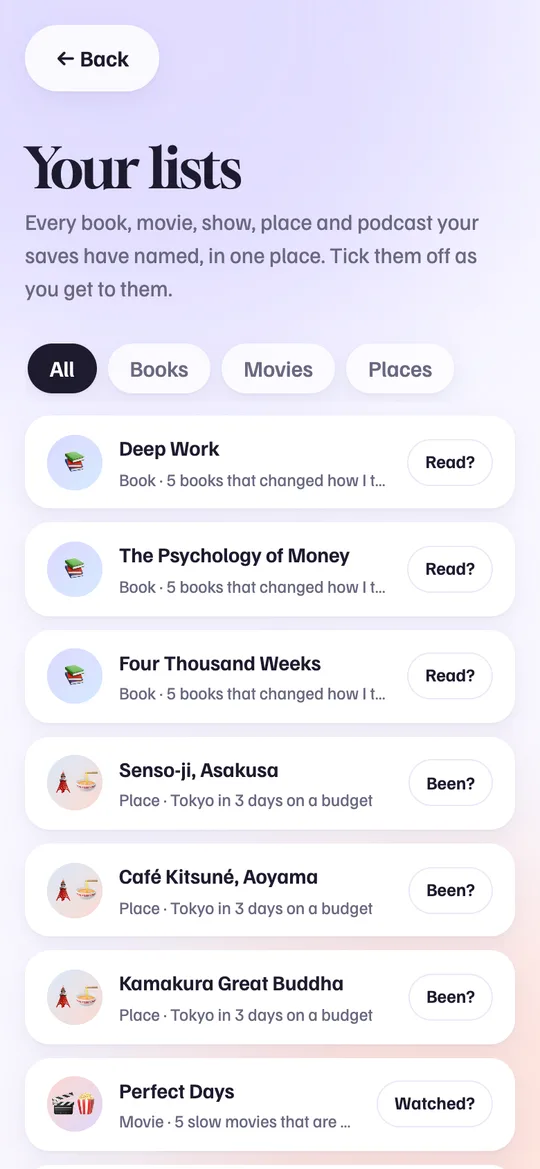
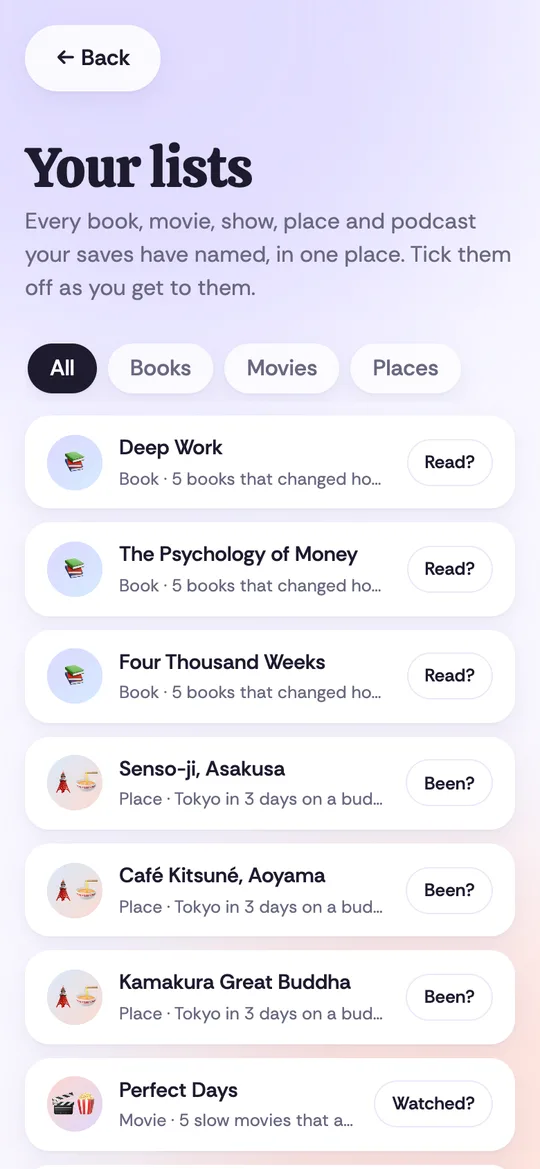
New type: Calistoga + Rethink Sans
Gloock (sharp editorial serif) + Familjen Grotesk read as generic
AI-landing-page type. Calistoga is soft and chunky, closer to the tail
mark and the cosy recipe-card content; Rethink Sans is a clear, friendly
UI sans. Applied to the app, landing, share page, privacy/terms and the
launch video; og.png and app screenshots regenerated.

diff --git a/promo/src/launch/SkwirlLaunch.tsx b/promo/src/launch/SkwirlLaunch.tsx
@@ -68,7 +68,7 @@ const Reveal: React.FC = () => {
     <AbsoluteFill style={{ display: "grid", placeItems: "center", opacity: 1 - out, transform: `scale(${1 - out * 0.06})` }}>
       <div style={{ display: "flex", alignItems: "center", gap: 40, transform: `translateX(${(1 - word) * 150}px)` }}>
         <Mark id="reveal" size={280} draw={draw} acorn={f >= 158 ? acorn : 0} />
-        <div style={{ fontFamily: display, fontSize: 250, letterSpacing: "-0.035em", color: C.ink, lineHeight: 1, clipPath: `inset(-20% ${(1 - word) * 100}% -20% 0)` }}>Skwirl</div>
+        <div style={{ fontFamily: display, fontSize: 250, letterSpacing: "-0.02em", color: C.ink, lineHeight: 1, clipPath: `inset(-20% ${(1 - word) * 100}% -20% 0)` }}>Skwirl</div>
       </div>
     </AbsoluteFill>
   );
@@ -165,7 +165,7 @@ const PhoneStage: React.FC = () => {
 };
 const Left: React.FC<{ children: React.ReactNode; inAt: number; outAt: number }> = ({ children, inAt, outAt }) => {
   const s = useInOut(inAt - S.share, outAt - S.share, 30);
-  return <div style={{ position: "absolute", left: 170, top: 0, bottom: 0, width: 900, display: "flex", flexDirection: "column", justifyContent: "center", gap: 40, ...s }}>{children}</div>;
+  return <div style={{ position: "absolute", left: 170, top: 0, bottom: 0, width: 990, display: "flex", flexDirection: "column", justifyContent: "center", gap: 40, ...s }}>{children}</div>;
 };
 const Stagger: React.FC<{ items: React.ReactNode[]; from: number; every: number }> = ({ items, from, every }) => {
   const f = useCurrentFrame(); // sequence-local, like `from`
@@ -188,11 +188,11 @@ const Story: React.FC = () => (
       <Stagger from={262 - S.share} every={4} items={["Instagram", "TikTok", "YouTube", "X", "Threads"].map((n) => <Pill key={n}>{n}</Pill>)} />
     </Left>
     <Left inAt={362} outAt={534}>
-      <Kinetic captions={cap(noteVo)} voAt={VO.note - S.share} style={{ fontSize: 86 }} breakAfter={[4]} />
+      <Kinetic captions={cap(noteVo)} voAt={VO.note - S.share} style={{ fontSize: 78 }} breakAfter={[4, 9]} />
       <Stagger from={392 - S.share} every={8} items={[["🔊", "Audio"], ["🔤", "On-screen text"], ["✍", "Caption"], ["💬", "Top comments"]].map(([e, n]) => <Pill key={n} bg={C.butter}>{e} {n}</Pill>)} />
     </Left>
     <Left inAt={542} outAt={678}>
-      <Kinetic captions={cap(lists)} voAt={VO.lists - S.share} style={{ fontSize: 86 }} breakAfter={[2]} />
+      <Kinetic captions={cap(lists)} voAt={VO.lists - S.share} style={{ fontSize: 78 }} breakAfter={[2, 5]} />
       <Stagger from={590 - S.share} every={7} items={MENTIONS.map(([e, n, k, c]) => (
         <div key={n} style={{ display: "flex", alignItems: "center", gap: 16, background: "#fff", borderRadius: 26, padding: "14px 24px 14px 14px", boxShadow: lift, fontFamily: ui }}>
           <span style={{ width: 56, height: 56, borderRadius: "50%", background: c, display: "grid", placeItems: "center", fontSize: 28 }}>{e}</span>
@@ -248,7 +248,7 @@ const Outro: React.FC = () => {
     <AbsoluteFill style={{ display: "flex", flexDirection: "column", alignItems: "center", justifyContent: "center", gap: 34 }}>
       <div style={{ display: "flex", alignItems: "center", gap: 26, opacity: lock, transform: `scale(${0.85 + lock * 0.15})` }}>
         <Mark id="outro" size={150} />
-        <span style={{ fontFamily: display, fontSize: 150, letterSpacing: "-0.035em", color: C.ink, lineHeight: 1 }}>Skwirl</span>
+        <span style={{ fontFamily: display, fontSize: 150, letterSpacing: "-0.02em", color: C.ink, lineHeight: 1 }}>Skwirl</span>
       </div>
       <Kinetic captions={cap(outro)} voAt={VO.outro - S.outro} skip={1} style={{ fontSize: 76, textAlign: "center" }} />
       <div style={{ display: "flex", gap: 16, opacity: url, transform: `translateY(${(1 - url) * 24}px)` }}>

diff --git a/worker/src/share.ts b/worker/src/share.ts
@@ -95,24 +95,24 @@ const page = (title: string, body: string, meta: string) => `<!doctype html>
 <meta name="viewport" content="width=device-width, initial-scale=1">
 <title>${esc(title)} · Skwirl</title>${meta}
 <link rel="icon" href="/icon-192.png">
-<link href="https://fonts.googleapis.com/css2?family=Familjen+Grotesk:wght@400;500;600&family=Gloock&display=swap" rel="stylesheet">
+<link href="https://fonts.googleapis.com/css2?family=Calistoga&family=Rethink+Sans:wght@400;500;600&display=swap" rel="stylesheet">
 <style>
 :root { --bg:#f8f7ff; --ink:#1d1b2e; --muted:#6a6880; --lavender:#dcd8ff; --peach:#ffd8cb; }
 * { box-sizing: border-box; }
-body { margin:0; background:var(--bg); color:var(--ink); font:17px/1.55 "Familjen Grotesk", system-ui, sans-serif; padding:24px 18px 60px; }
+body { margin:0; background:var(--bg); color:var(--ink); font:17px/1.55 "Rethink Sans", system-ui, sans-serif; padding:24px 18px 60px; }
 main { max-width:640px; margin:0 auto; }
-.top { display:inline-flex; align-items:center; gap:7px; font-family:Gloock, Georgia, serif; font-size:26px; color:inherit; text-decoration:none; }
+.top { display:inline-flex; align-items:center; gap:7px; font-family:Calistoga, Georgia, serif; font-size:26px; color:inherit; text-decoration:none; }
 .top img { width:27px; height:27px; }
 .cover { display:block; width:100%; max-height:320px; object-fit:cover; border-radius:28px; margin:18px 0 16px; }
 .tag { display:inline-block; margin-top:18px; padding:3px 12px; border-radius:999px; background:var(--lavender); font-size:13px; font-weight:500; text-transform:capitalize; }
-h1 { font-family:Gloock, Georgia, serif; font-weight:400; font-size:clamp(30px,7vw,44px); line-height:1.1; margin:12px 0 14px; }
-h2 { font-family:Gloock, Georgia, serif; font-weight:400; font-size:23px; margin:26px 0 6px; }
+h1 { font-family:Calistoga, Georgia, serif; font-weight:400; font-size:clamp(30px,7vw,44px); line-height:1.1; margin:12px 0 14px; }
+h2 { font-family:Calistoga, Georgia, serif; font-weight:400; font-size:23px; margin:26px 0 6px; }
 .note { background:#fff; border-radius:28px; padding:6px 22px 18px; box-shadow:0 6px 18px rgb(60 50 120 / .07); }
 ol, ul { padding-left:22px; } li { margin-bottom:6px; }
 .btn { display:inline-flex; align-items:center; height:48px; padding:0 22px; border-radius:999px; background:var(--ink); color:#fff; font-weight:600; text-decoration:none; }
 .btn.soft { background:#fff; color:var(--ink); box-shadow:0 6px 18px rgb(60 50 120 / .07); }
 .cta { margin-top:34px; background:var(--peach); border-radius:28px; padding:22px; }
-.cta b { font-family:Gloock, Georgia, serif; font-weight:400; font-size:24px; }
+.cta b { font-family:Calistoga, Georgia, serif; font-weight:400; font-size:24px; }
 .cta p { margin:6px 0 16px; }
 </style></head>
 <body><main><a class="top" href="/"><img src="/mark.svg" alt="">Skwirl</a>${body}</main></body></html>`;

diff --git a/worker/public/privacy.html b/worker/public/privacy.html
@@ -2,14 +2,14 @@
 <html lang="en"><head><meta charset="utf-8"><meta name="viewport" content="width=device-width, initial-scale=1">
 <title>Privacy · Skwirl</title><meta name="theme-color" content="#f8f7ff"><link rel="icon" href="/favicon.svg" type="image/svg+xml">
 <link rel="preconnect" href="https://fonts.googleapis.com"><link rel="preconnect" href="https://fonts.gstatic.com" crossorigin>
-<link href="https://fonts.googleapis.com/css2?family=Familjen+Grotesk:wght@400;500;600&family=Gloock&display=swap" rel="stylesheet">
+<link href="https://fonts.googleapis.com/css2?family=Calistoga&family=Rethink+Sans:wght@400;500;600&display=swap" rel="stylesheet">
 <style>
 :root { --bg:#f8f7ff; --ink:#1d1b2e; --muted:#6a6880; --lavender:#dcd8ff; }
 * { box-sizing:border-box; } html { color-scheme: light; }
-body { margin:0; background:var(--bg); color:var(--ink); font:16px/1.6 "Familjen Grotesk", ui-sans-serif, system-ui, sans-serif; padding:24px 18px 60px; }
+body { margin:0; background:var(--bg); color:var(--ink); font:16px/1.6 "Rethink Sans", ui-sans-serif, system-ui, sans-serif; padding:24px 18px 60px; }
 main { max-width:680px; margin:0 auto; background:#fff; border-radius:28px; padding:28px 24px; box-shadow:0 4px 10px rgb(60 50 120 / .08), 0 18px 40px rgb(60 50 120 / .10); }
-h1 { font-family:Gloock, Georgia, serif; font-weight:400; font-size:36px; line-height:1.1; margin:6px 0 4px; }
-h2 { font-family:Gloock, Georgia, serif; font-weight:400; font-size:22px; margin:26px 0 6px; }
+h1 { font-family:Calistoga, Georgia, serif; font-weight:400; font-size:36px; line-height:1.1; margin:6px 0 4px; }
+h2 { font-family:Calistoga, Georgia, serif; font-weight:400; font-size:22px; margin:26px 0 6px; }
 .muted { color:var(--muted); font-size:14px; } a { color:inherit; }
 .back { display:inline-block; margin-bottom:10px; text-decoration:none; background:var(--bg); border-radius:999px; padding:8px 16px; font-weight:600; }
 .note { background:#fff0c4; border-radius:16px; padding:12px 14px; font-size:14px; }

diff --git a/worker/public/terms.html b/worker/public/terms.html
@@ -2,14 +2,14 @@
 <html lang="en"><head><meta charset="utf-8"><meta name="viewport" content="width=device-width, initial-scale=1">
 <title>Terms · Skwirl</title><meta name="theme-color" content="#f8f7ff"><link rel="icon" href="/favicon.svg" type="image/svg+xml">
 <link rel="preconnect" href="https://fonts.googleapis.com"><link rel="preconnect" href="https://fonts.gstatic.com" crossorigin>
-<link href="https://fonts.googleapis.com/css2?family=Familjen+Grotesk:wght@400;500;600&family=Gloock&display=swap" rel="stylesheet">
+<link href="https://fonts.googleapis.com/css2?family=Calistoga&family=Rethink+Sans:wght@400;500;600&display=swap" rel="stylesheet">
 <style>
 :root { --bg:#f8f7ff; --ink:#1d1b2e; --muted:#6a6880; --lavender:#dcd8ff; }
 * { box-sizing:border-box; } html { color-scheme: light; }
-body { margin:0; background:var(--bg); color:var(--ink); font:16px/1.6 "Familjen Grotesk", ui-sans-serif, system-ui, sans-serif; padding:24px 18px 60px; }
+body { margin:0; background:var(--bg); color:var(--ink); font:16px/1.6 "Rethink Sans", ui-sans-serif, system-ui, sans-serif; padding:24px 18px 60px; }
 main { max-width:680px; margin:0 auto; background:#fff; border-radius:28px; padding:28px 24px; box-shadow:0 4px 10px rgb(60 50 120 / .08), 0 18px 40px rgb(60 50 120 / .10); }
-h1 { font-family:Gloock, Georgia, serif; font-weight:400; font-size:36px; line-height:1.1; margin:6px 0 4px; }
-h2 { font-family:Gloock, Georgia, serif; font-weight:400; font-size:22px; margin:26px 0 6px; }
+h1 { font-family:Calistoga, Georgia, serif; font-weight:400; font-size:36px; line-height:1.1; margin:6px 0 4px; }
+h2 { font-family:Calistoga, Georgia, serif; font-weight:400; font-size:22px; margin:26px 0 6px; }
 .muted { color:var(--muted); font-size:14px; } a { color:inherit; }
 .back { display:inline-block; margin-bottom:10px; text-decoration:none; background:var(--bg); border-radius:999px; padding:8px 16px; font-weight:600; }
 .note { background:#fff0c4; border-radius:16px; padding:12px 14px; font-size:14px; }

diff --git a/worker/public/index.html b/worker/public/index.html
@@ -19,10 +19,10 @@
 <meta name="apple-mobile-web-app-capable" content="yes">
 <link rel="preconnect" href="https://fonts.googleapis.com">
 <link rel="preconnect" href="https://fonts.gstatic.com" crossorigin>
-<link href="https://fonts.googleapis.com/css2?family=Familjen+Grotesk:wght@400;500;600&family=Gloock&display=swap" rel="stylesheet">
+<link href="https://fonts.googleapis.com/css2?family=Calistoga&family=Rethink+Sans:wght@400;500;600&display=swap" rel="stylesheet">
 <style>
 /* Design language borrowed from the portfolio's "ethereal" theme: cool lavender-white
-   ground, lavender / mint / peach pastels, Gloock (display serif) + Familjen Grotesk,
+   ground, lavender / mint / peach pastels, Calistoga (soft chunky display) + Rethink Sans,
    generously rounded corners, soft low-alpha elevation. Light mode only, by choice. */
 :root {
   --bg: #f8f7ff; --surface: #ffffff; --ink: #1d1b2e; --muted: #6a6880; --line: #ebe8f7;
@@ -31,8 +31,8 @@
   --r-card: 24px; --r-input: 999px; --r-btn: 999px;
   --lift-1: 0 1px 2px rgb(60 50 120 / .05), 0 6px 18px rgb(60 50 120 / .07);
   --lift-2: 0 4px 10px rgb(60 50 120 / .08), 0 18px 40px rgb(60 50 120 / .12);
-  --display: "Gloock", Georgia, "Times New Roman", serif;
-  --ui: "Familjen Grotesk", ui-sans-serif, -apple-system, system-ui, sans-serif;
+  --display: "Calistoga", Georgia, "Times New Roman", serif;
+  --ui: "Rethink Sans", ui-sans-serif, -apple-system, system-ui, sans-serif;
   --mono: ui-monospace, "SF Mono", Menlo, monospace;
 }
 * { box-sizing: border-box; }

diff --git a/promo/src/launch/kit.tsx b/promo/src/launch/kit.tsx
@@ -1,12 +1,12 @@
 import React from "react";
 import { AbsoluteFill, Easing, interpolate, spring, useCurrentFrame, useVideoConfig } from "remotion";
 import type { Caption } from "@remotion/captions";
-import { loadFont as loadGloock } from "@remotion/google-fonts/Gloock";
-import { loadFont as loadFamiljen } from "@remotion/google-fonts/FamiljenGrotesk";
+import { loadFont as loadCalistoga } from "@remotion/google-fonts/Calistoga";
+import { loadFont as loadRethink } from "@remotion/google-fonts/RethinkSans";
 import { ACORN, CENTRELINE, CENTRELINE_LENGTH, MAX_WIDTH, TAIL } from "./markGeometry";
 
-export const display = loadGloock().fontFamily;
-export const ui = loadFamiljen("normal", { weights: ["400", "500", "600"] }).fontFamily;
+export const display = loadCalistoga().fontFamily;
+export const ui = loadRethink("normal", { weights: ["400", "500", "600"] }).fontFamily;
 
 // The app's own tokens (worker/public/index.html :root).
 export const C = {
@@ -47,7 +47,7 @@ export const Kinetic: React.FC<{
   const f = useCurrentFrame();
   const { fps } = useVideoConfig();
   return (
-    <div style={{ fontFamily: display, color: C.ink, letterSpacing: "-0.03em", lineHeight: 1.04, ...style }}>
+    <div style={{ fontFamily: display, color: C.ink, letterSpacing: "-0.015em", lineHeight: 1.06, ...style }}>
       {captions.slice(skip).map((c, i) => {
         const at = voAt + (c.startMs / 1000) * fps - lead;
         const s = spring({ frame: f - at, fps, config: { damping: 18, stiffness: 160 } });

diff --git a/DESIGN.md b/DESIGN.md
@@ -40,7 +40,7 @@ visual language of the portfolio's "ethereal" theme (`portfolio-v2/components/et
 - **Light mode only.** Ground `#f8f7ff`, soft drifting lavender/peach orbs behind content.
 - **Pastels:** lavender `#dcd8ff`, mint `#cdf3e1`, peach `#ffd8cb`, sky `#d6ebff`, butter `#fff0c4`. Each topic gets a fixed tint; cards lead with a big serif initial until real thumbnails exist.
 - **Peach means "unused"** (the badge and counter). It's the one semantic colour: the unused count is the product's core metric.
-- **Type:** Gloock (display serif) for the wordmark, titles and section heads; Familjen Grotesk for UI and body.
+- **Type:** Calistoga (soft, chunky display; its rounded, ink-trapped curves echo the tail mark) for the wordmark, titles and section heads; Rethink Sans for UI and body. Replaced Gloock + Familjen Grotesk on 2026-11-03: the sharp editorial serif read as generic AI-landing-page type.
 - **Shape:** generous radii (cards 24px, hero 32px, sheets 28px, everything interactive is a pill), soft low-alpha elevation instead of borders.
 - **Logo (2026-10-29):** a squirrel tail drawn as one tapered swirl, coral acorn tucked in the curl. Sources and rules in `design/logo/`.
 - **Motion:** cards rise + fade with a short stagger, press = scale .97, bottom sheet slides in; all disabled under reduced-motion.
@@ -76,4 +76,3 @@ served from D1 at `/t/<id>`. The serif initial stays underneath as the fallback.
 
 ## Still open
 1. Collections beyond auto-topics.
-2. Wordmark and name: currently "Stash" set in Gloock; a rename is being considered.

diff --git a/design/logo/README.md b/design/logo/README.md
@@ -8,7 +8,7 @@ with a coral acorn tucked inside the curl: the thing it stashed for later.
 - `final.py` writes the SVGs: `mark.svg` (bare), `icon.svg` (full-bleed lavender, the OS rounds
   it), `maskable.svg` (smaller, inside Android's safe circle), `favicon.svg` (rounded square).
 - Colours: ink `#1d1b2e`, acorn coral `#ff7a59`, ground lavender `#dcd8ff`.
-- Wordmark: "Skwirl" in Gloock, mark at ~1em to the left, gap ~0.26em.
+- Wordmark: "Skwirl" in Calistoga, mark at ~1em to the left, gap ~0.26em.
 
 Rebuild: `python3 final.py`, then render the PNG sizes with headless Chrome (512, 192, 180,
 maskable 512) into `worker/public/`.
